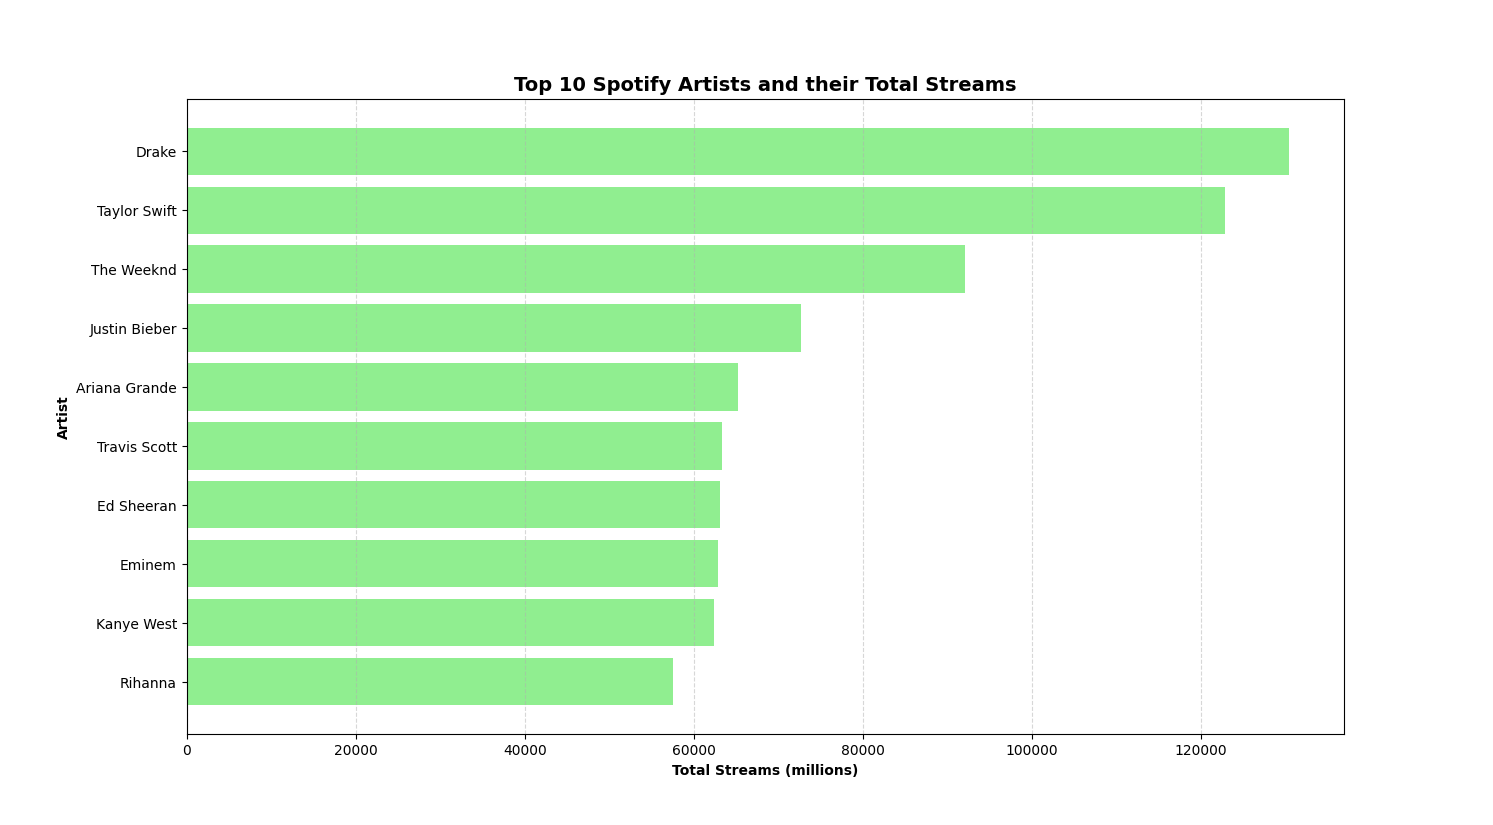
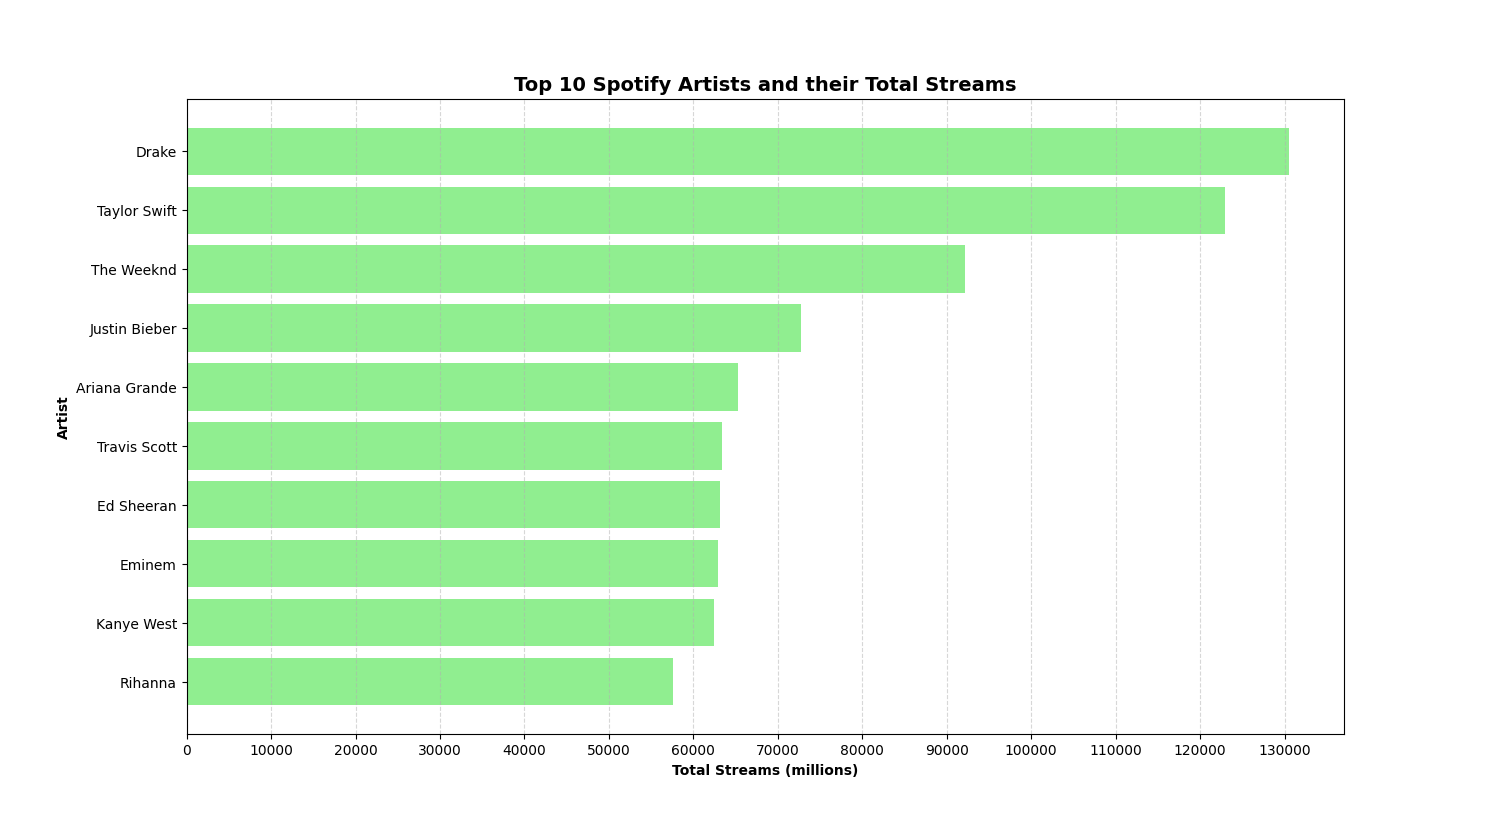
most streamed songs graph

diff --git a/Python_scripts/Outputs_scripts/top_song_streams.py b/Python_scripts/Outputs_scripts/top_song_streams.py
@@ -1,0 +1,34 @@
+#This script is to produce a bar graph showing the top 20 artists on spotify and their total streams
+#Import libraries and dataset
+import pandas as pd
+import numpy as np
+import matplotlib.pyplot as plt
+top_artists = pd.read_csv('./Data_science_final_project/Datasets/Cleaned_datasets/cleaned_top_spotify_artists.csv')
+#Need to know column names to make graph
+print(top_artists.info())
+
+#Sort artists from lowest to highest streams
+top_artists.sort_values(by = 'Song Streams (millions)', ascending = True, inplace=True)
+print(top_artists)
+#make the bar graph with artist names on the y axis and total streams on the x axis
+
+#y axis needs to have the name of both the artist and song:
+song_artist = []
+count = 0
+for row in top_artists['Artist']:
+    print(row)
+    song_artist.append(top_artists['Top Song'].iloc[count] + ' - ' + top_artists['Artist'].iloc[count])
+    count += 1
+
+print(song_artist)
+plt.figure()
+plt.barh(song_artist, top_artists['Song Streams (millions)'], color = 'green')
+#add labels, title and gridlines
+plt.xlabel('Streams (millions)', fontweight = 'bold')
+plt.ylabel('Artist and song', fontweight = 'bold')
+plt.title('Top 10 Spotify Artists and their Total Streams', color = 'black', fontsize = 14, fontweight = 'bold')
+plt.grid(linestyle = '--', alpha = 0.5, axis = 'x')
+plt.yticks(song_artist)
+#manual adjestment of graph once it was created was done so the y label and ticks werent cut off
+
+plt.show()

diff --git a/Python_scripts/Webscraping_scripts/1_web_scraping_artists.py b/Python_scripts/Webscraping_scripts/1_web_scraping_artists.py
@@ -30,8 +30,9 @@ table_streams = table_streams[['Artist and Title', 'Streams']]
 #Loop through artists in top_artists dataframe, and find the first row with that artist in the table_streams dataframe
 top_song = []
 streams = []
-count = 0
+#for loop goes through each artist and for each artist it goes through each row in the dataframe and checks for a match the nadds the necessary info to lists
 for person in top_artists['Artist']:
+    count = 0
     for row in table_streams['Artist and Title']:
             if person in row:
                top_song.append(row)
@@ -39,8 +40,8 @@ for person in top_artists['Artist']:
                streams.append(float(table_streams['Streams'].iloc[count])/1000000)
                break
             else:
+                count += 1
                 continue
-    count += 1
 #We only want the song name, so need to remove the artist and '-'
 
 for i in range(len(top_song)):
@@ -67,11 +68,10 @@ for artist in top_artists['Artist']:
     else:
         gender.append('male')
 
-
 #add these things to dataframe
 
 top_artists['Top Song'] = top_song
-top_artists['Song Streams (in millions)'] = streams
+top_artists['Song Streams (millions)'] = streams
 top_artists['Gender'] = gender
 
 print(top_artists)
@@ -81,3 +81,4 @@ top_artists.to_csv('./Data_science_final_project/Datasets/Cleaned_datasets/clean
 
 
 
+print(streams)

diff --git a/Python_scripts/Outputs_scripts/top_artists_streams_graph.py b/Python_scripts/Outputs_scripts/top_artists_streams_graph.py
@@ -12,11 +12,11 @@ top_artists.sort_values('Streams (millions)', ascending = True, inplace=True)
 #make the bar graph with artist names on the y axis and total streams on the x axis
 plt.figure()
 plt.barh(top_artists['Artist'], top_artists['Streams (millions)'], color = 'lightgreen')
-
 #add labels, title and gridlines
 plt.xlabel('Total Streams (millions)', fontweight = 'bold')
 plt.ylabel('Artist', fontweight = 'bold')
 plt.title('Top 10 Spotify Artists and their Total Streams', color = 'black', fontsize = 14, fontweight = 'bold')
 plt.grid(linestyle = '--', alpha = 0.5, axis = 'x')
+plt.xticks(np.arange(0,140000,10000))
 
 plt.show()

diff --git a/Python_scripts/Webscraping_scripts/2_webscraping_lyrics.py b/Python_scripts/Webscraping_scripts/2_webscraping_lyrics.py
@@ -20,7 +20,7 @@ for webpage in url:
     response = req.get(webpage)
     soup = BeautifulSoup(response.text, 'html.parser')
     #add 3 second time delay to not overwhelm website
-    time.sleep(3)
+    time.sleep(1)
     #find lyrics from the page
 
     lyrics = soup.find_all('div', class_=None)
